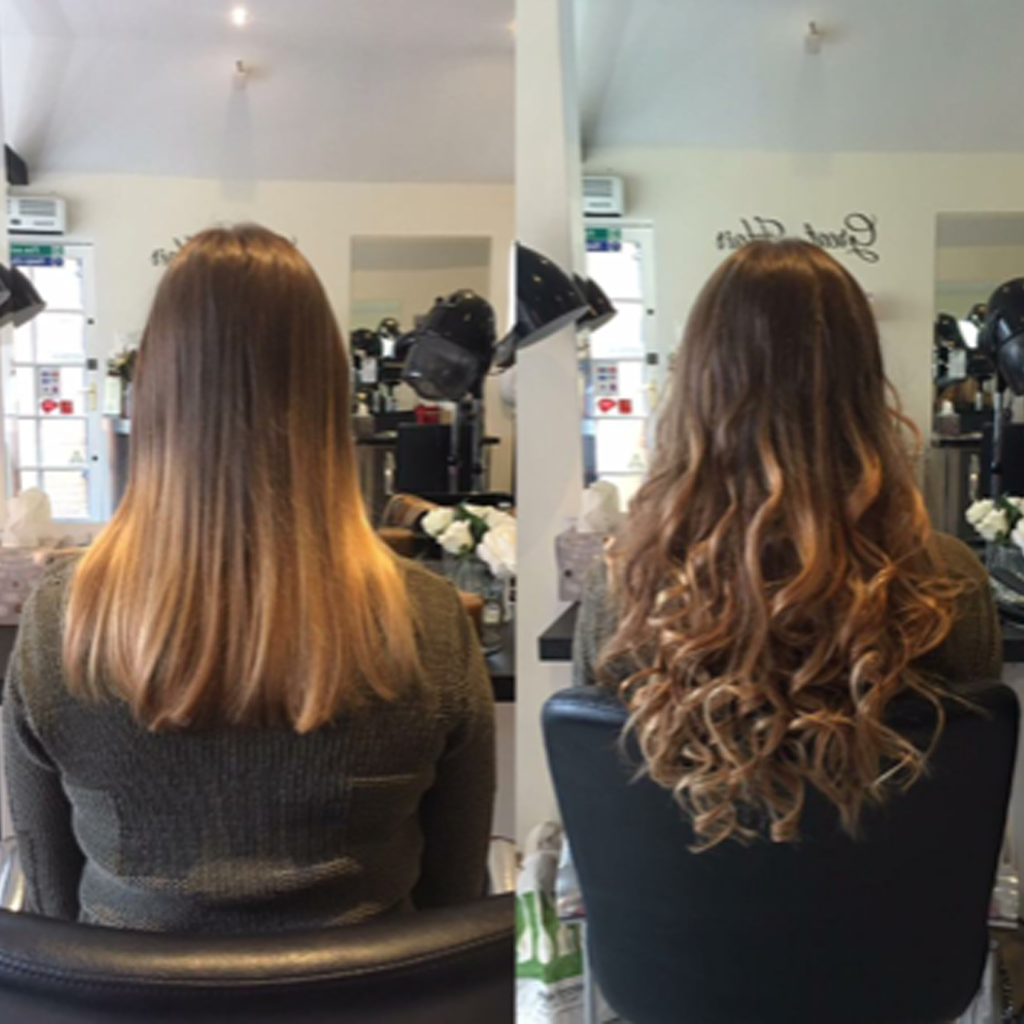
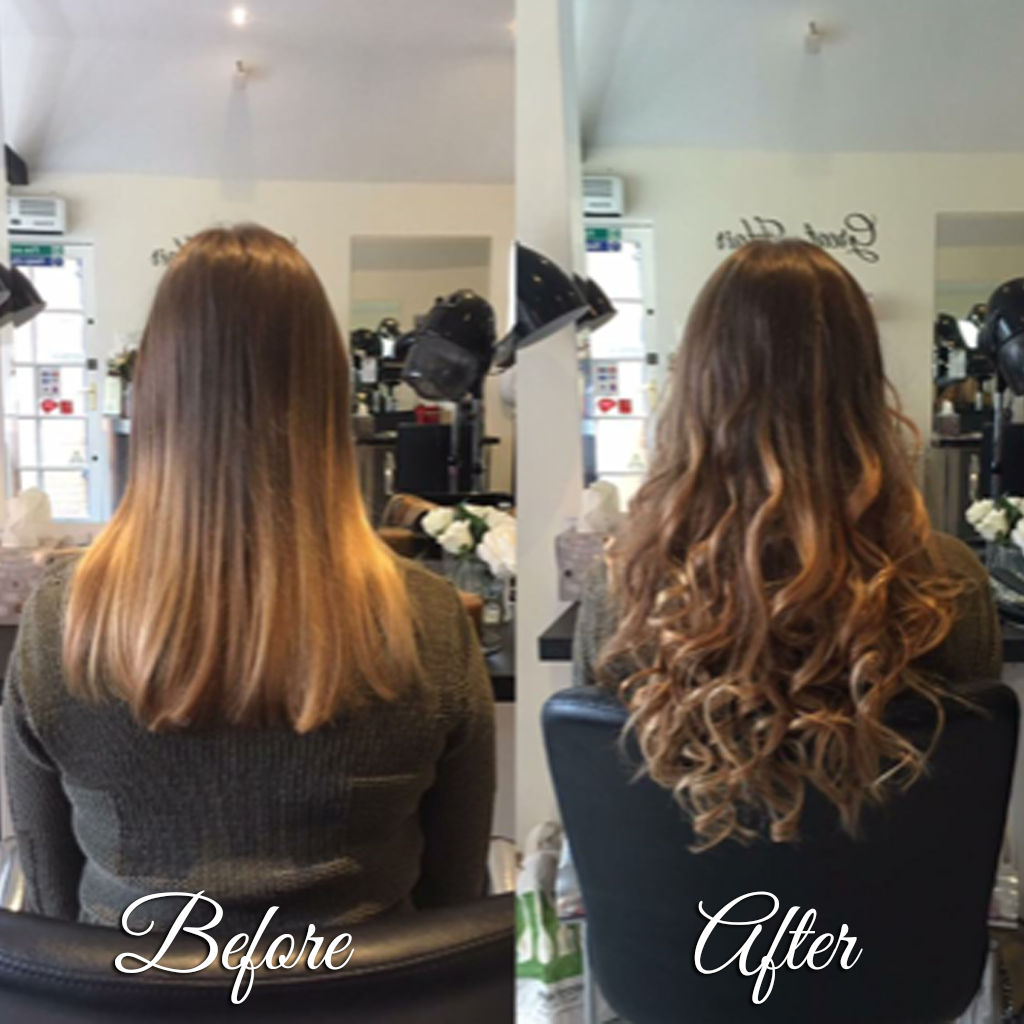
Added before and after subtitles to relevant gallery images

Changed region(s): [[0.0938, 0.8438, 0.3438, 1.0], [0.6562, 0.875, 0.8438, 1.0]]

diff --git a/src/style.css b/src/style.css
@@ -21,7 +21,7 @@ h2 {
 h1 {
   border-style: solid;
   border-width: 7px;
-  font-size: 8vw;
+  font-size: 7vw;
   margin-bottom: 0px;
   background-color: var(--background-color);
 }
@@ -55,28 +55,29 @@ h6 {
   font-weight: bold;
 }
 .wrapper {
-  padding-top: clamp(170px, 25vw, 215px);
+  padding-top: clamp(175px, 25vw, 215px);
 }
 .fas,
 .fab {
   color: black;
 }
 
-.front-page {
-  height: 70vh;
-  margin-top: 28vh;
-}
-.front-page h2 {
-  font-family: "Great Vibes", cursive;
-  font-size: 16vw;
-}
-.front-page h5 {
-  font-size: 3vw;
-}
 .salon-img {
   width: 200px;
   height: 125px;
   border-radius: 50%;
+}
+.great-hair-img {
+  width: 85vw;
+  display: block;
+  margin: 0 auto;
+}
+.front-page {
+  height: 70vh;
+  margin-top: 28vh;
+}
+.front-page h5 {
+  font-size: 3vw;
 }
 .hero {
   margin: 5%;
@@ -140,17 +141,19 @@ h6 {
     background-color: var(--navbar-color);
   }
 }
+@media (min-width: 768px) {
+  .great-hair-img {
+    width: 600px;
+  }
+  .front-page h5 {
+    font-size: 20px;
+  }
+}
 @media (min-width: 988px) {
   h1 {
     font-size: 70px;
   }
   h2 {
     font-size: 40px;
-  }
-  .front-page h2 {
-    font-size: 160px;
-  }
-  .front-page h5 {
-    font-size: 25px;
   }
 }

diff --git a/index.html b/index.html
@@ -70,7 +70,7 @@
     </header>
     <div class="front-page text-center">
       <img src="/media/oval-salon-border.png" class="salon-img" />
-      <h2>Great Hair</h2>
+      <img src="/media/greynbow.png" class="great-hair-img" alt="Great Hair" />
       <h5>
         doesn't happen by chance.
         <br />
@@ -118,7 +118,7 @@
       <hr />
       <h3 class="mt-4 mb-3">Opening Hours</h3>
       <p>
-        Monday - Saturday:
+        Monday to Saturday:
         <br />
         9:00AM - 5:00PM
       </p>

diff --git a/html/products.html b/html/products.html
@@ -146,13 +146,13 @@
             class="img-fluid pb-2"
           />
         </div>
-        <div class="col-sm-3">
+        <div class="col-sm-3 d-none d-sm-block">
           <img
             src="/media/products/cloud-nine/cn-spray.png"
             class="img-fluid pb-2"
           />
         </div>
-        <div class="col-sm-3 d-none d-sm-block">
+        <div class="col-sm-3">
           <img
             src="/media/products/cloud-nine/cn-poster.png"
             class="img-fluid pb-2"
